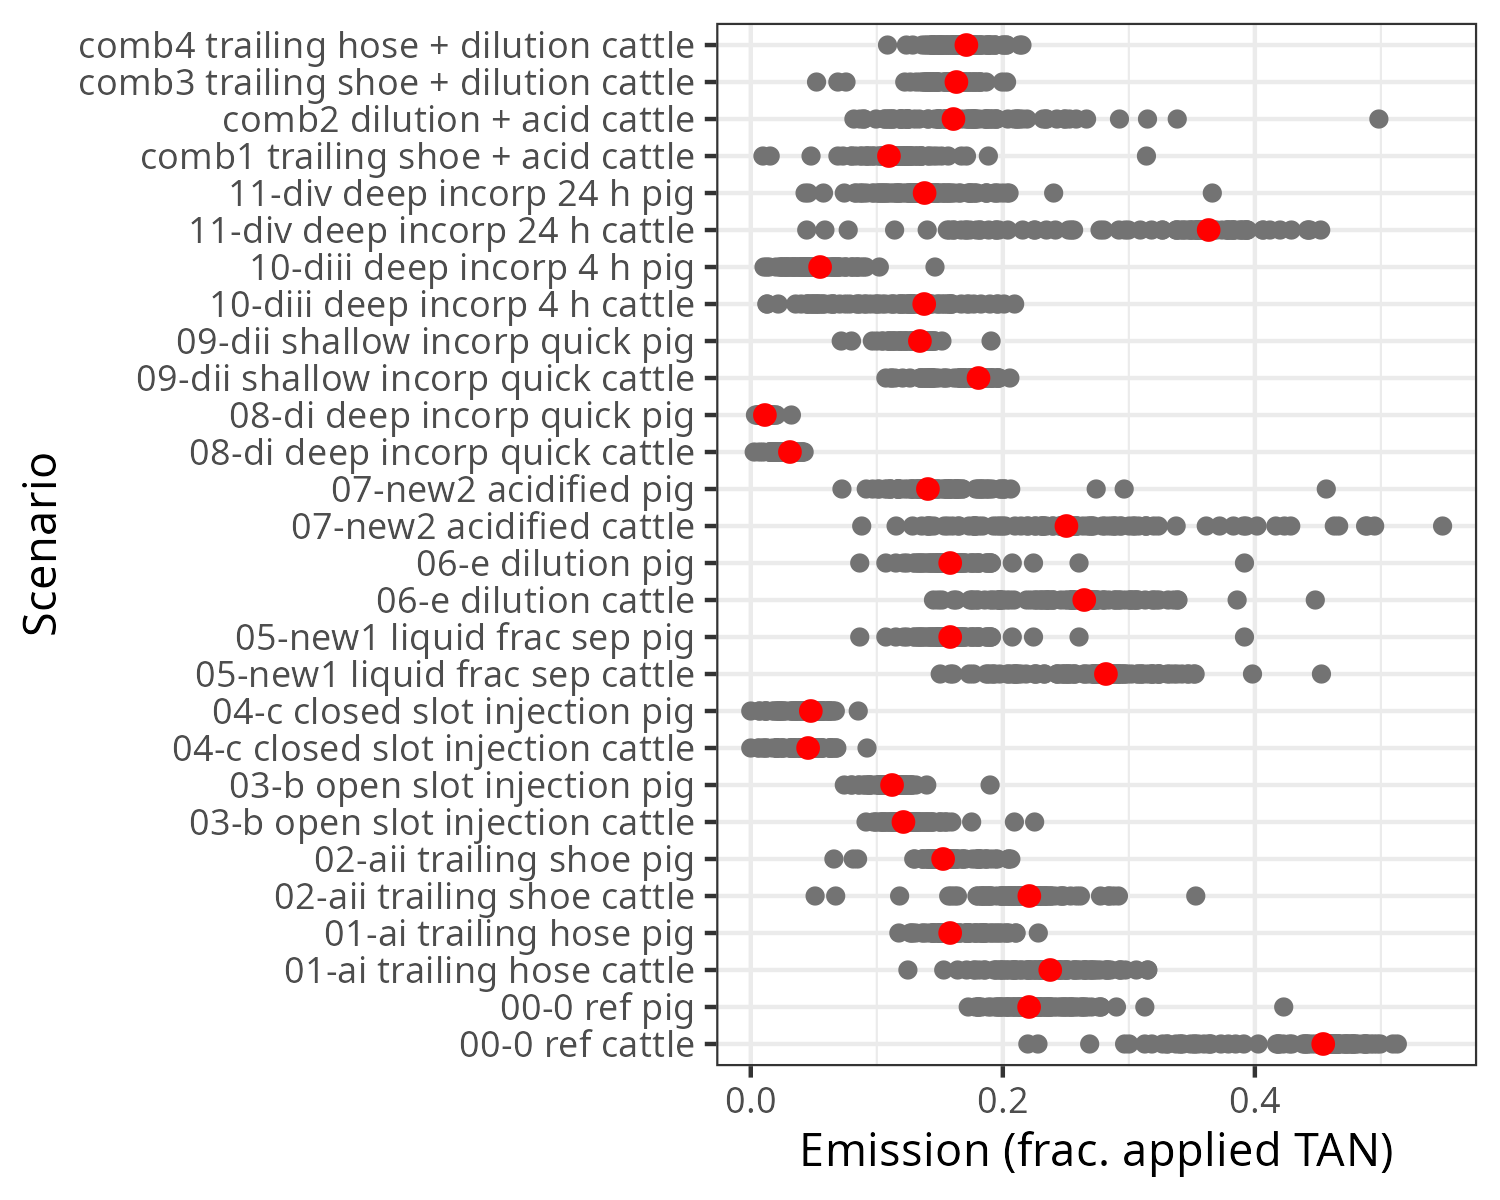
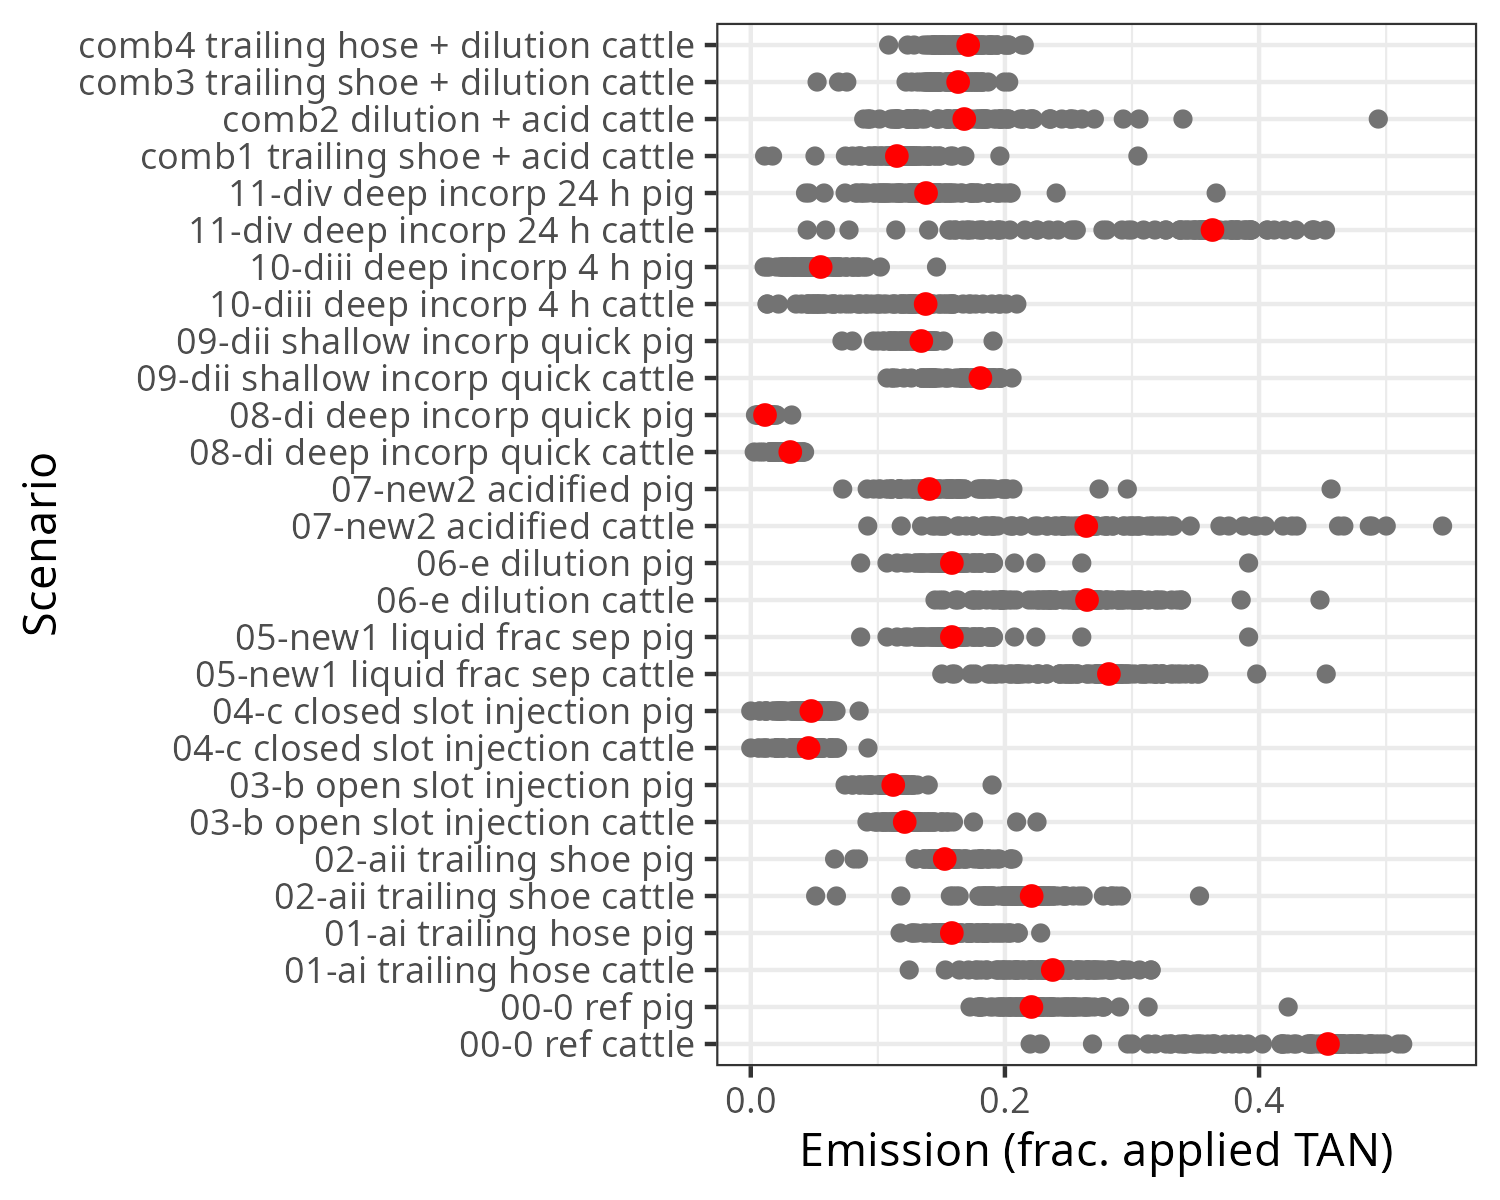
change acidification pH to 6 from 5.9 for cattle for ALFAM2 preds

diff --git a/chapter_7/reductions-ALFAM2/logs/ALFAM2_calcs_log.md b/chapter_7/reductions-ALFAM2/logs/ALFAM2_calcs_log.md
@@ -1,7 +1,7 @@
 ---
 title: 'ALFAM2 predictions'
 output: pdf_document
-date: "03 February, 2026 09:01"
+date: "04 February, 2026 05:37"
 ---
 
 Use conf.int = 'all' to get results from all 100 parameter sets to compare to reference scenario with uncertainty
